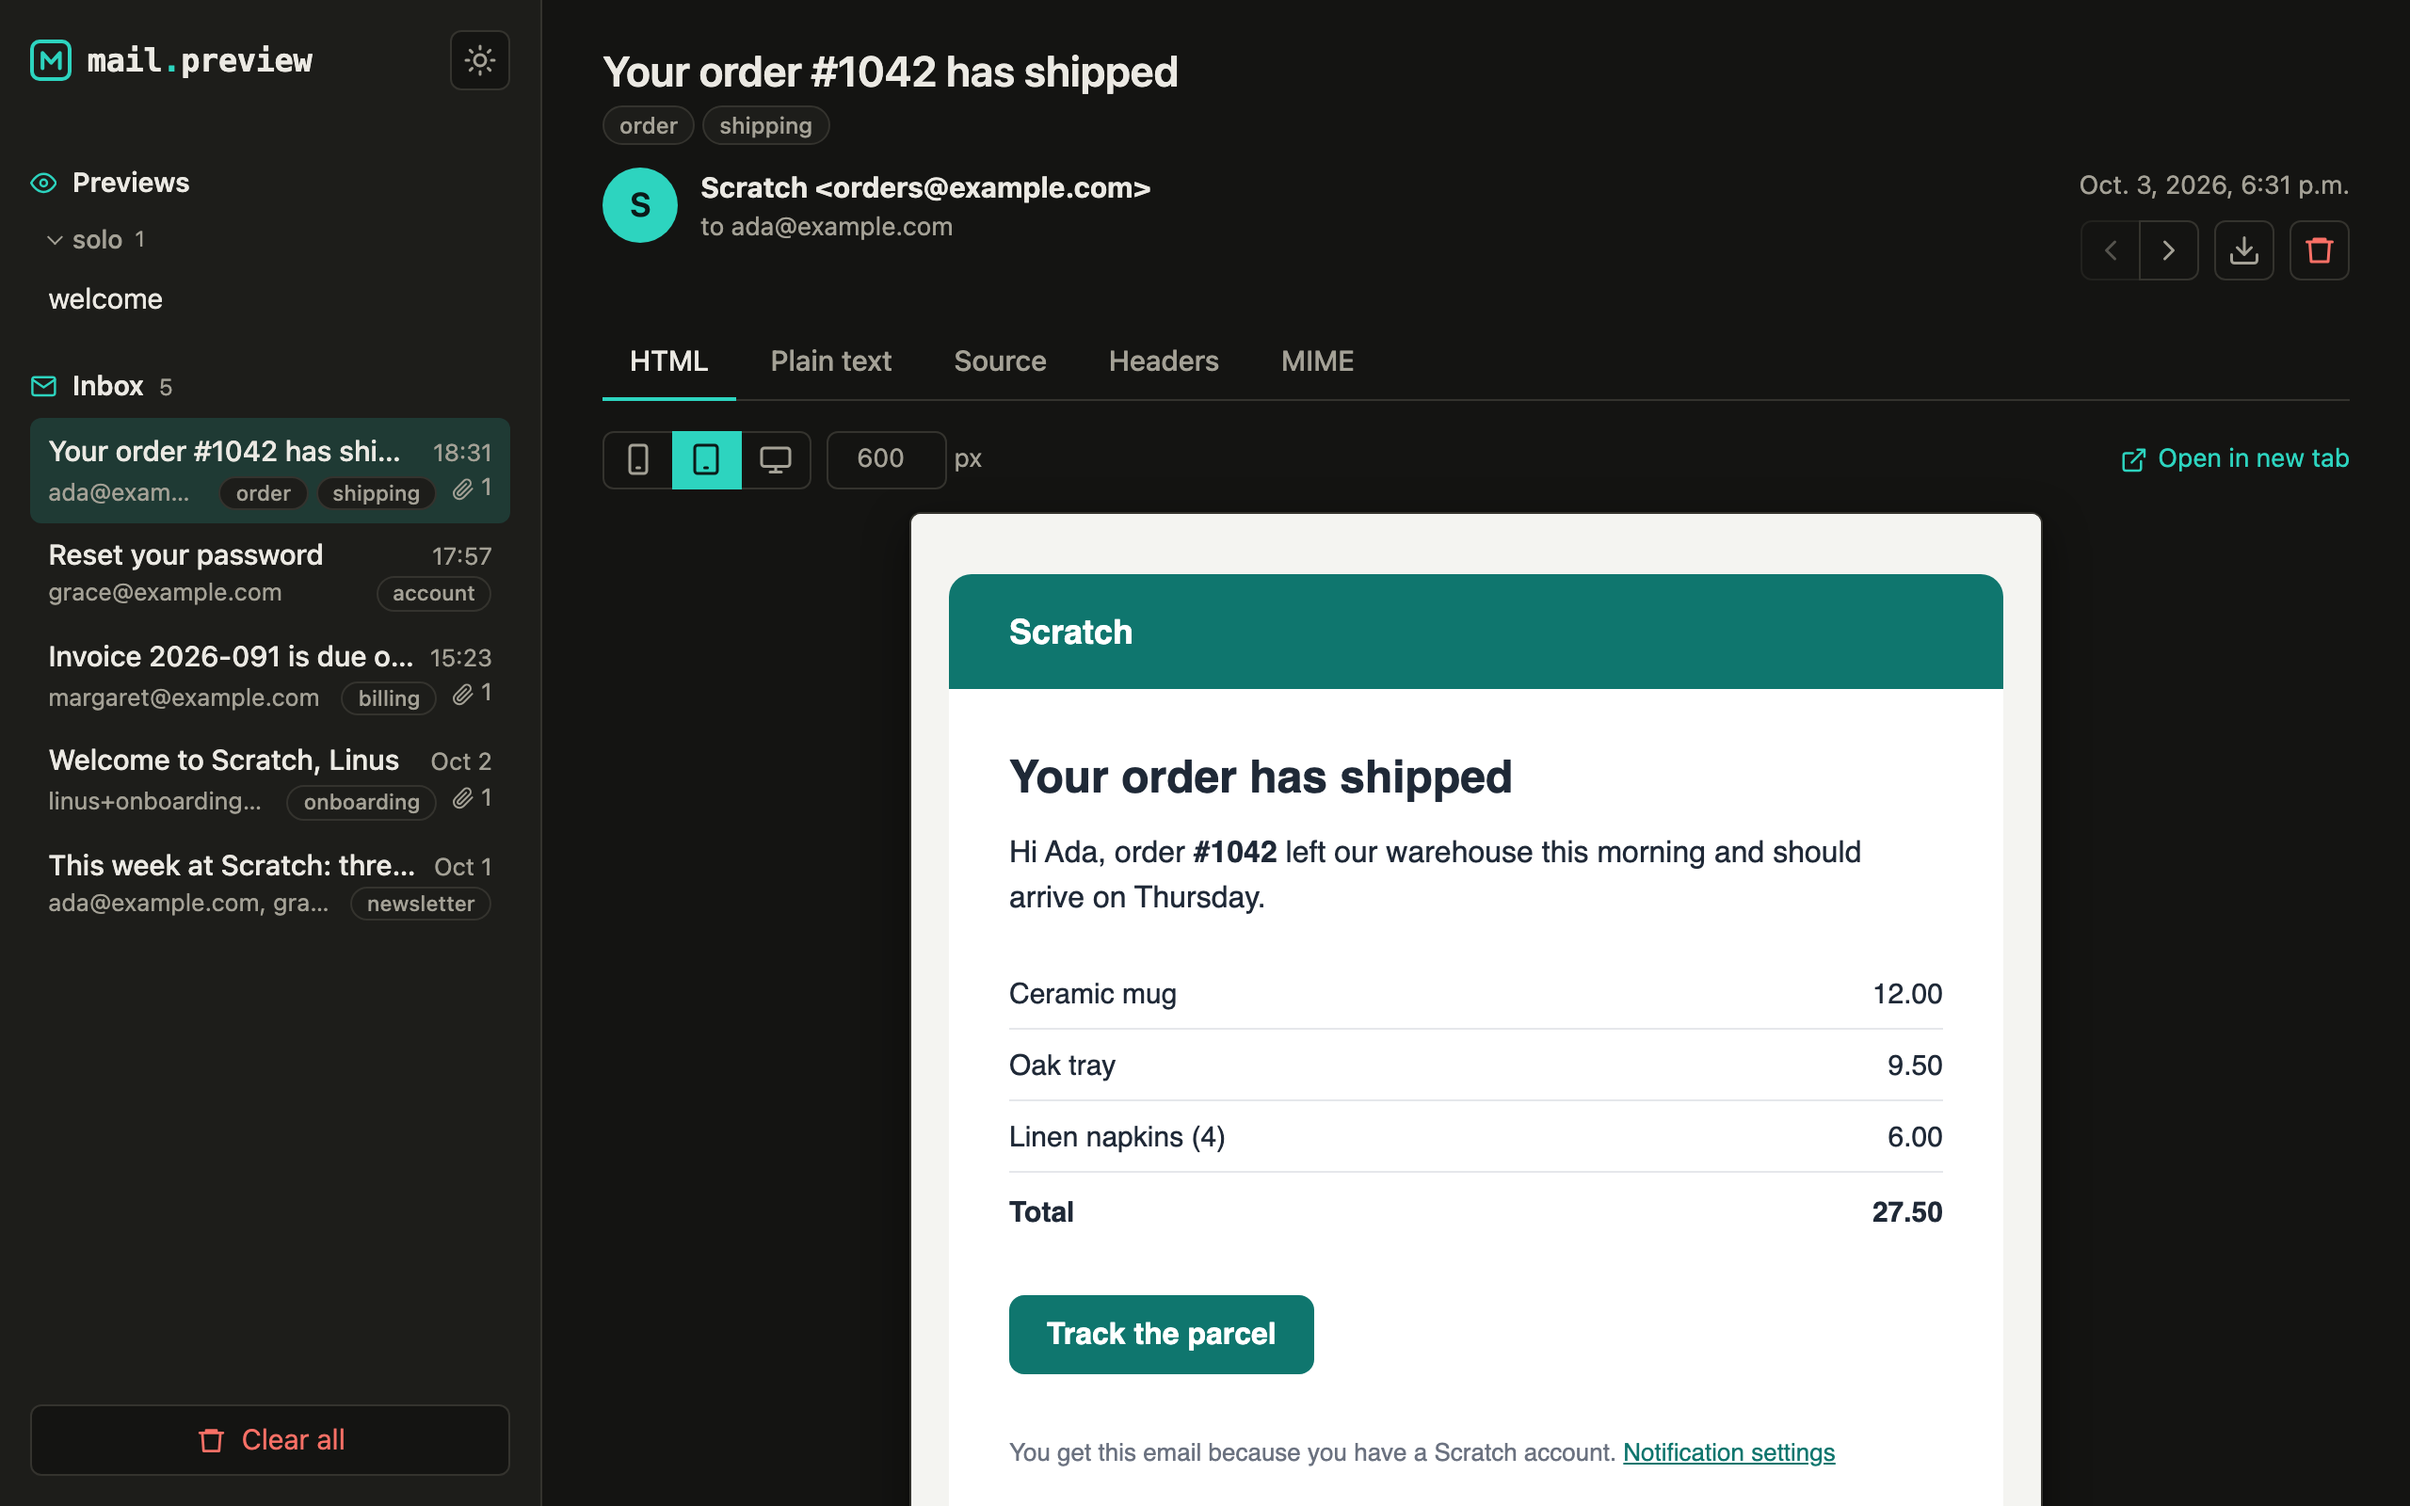
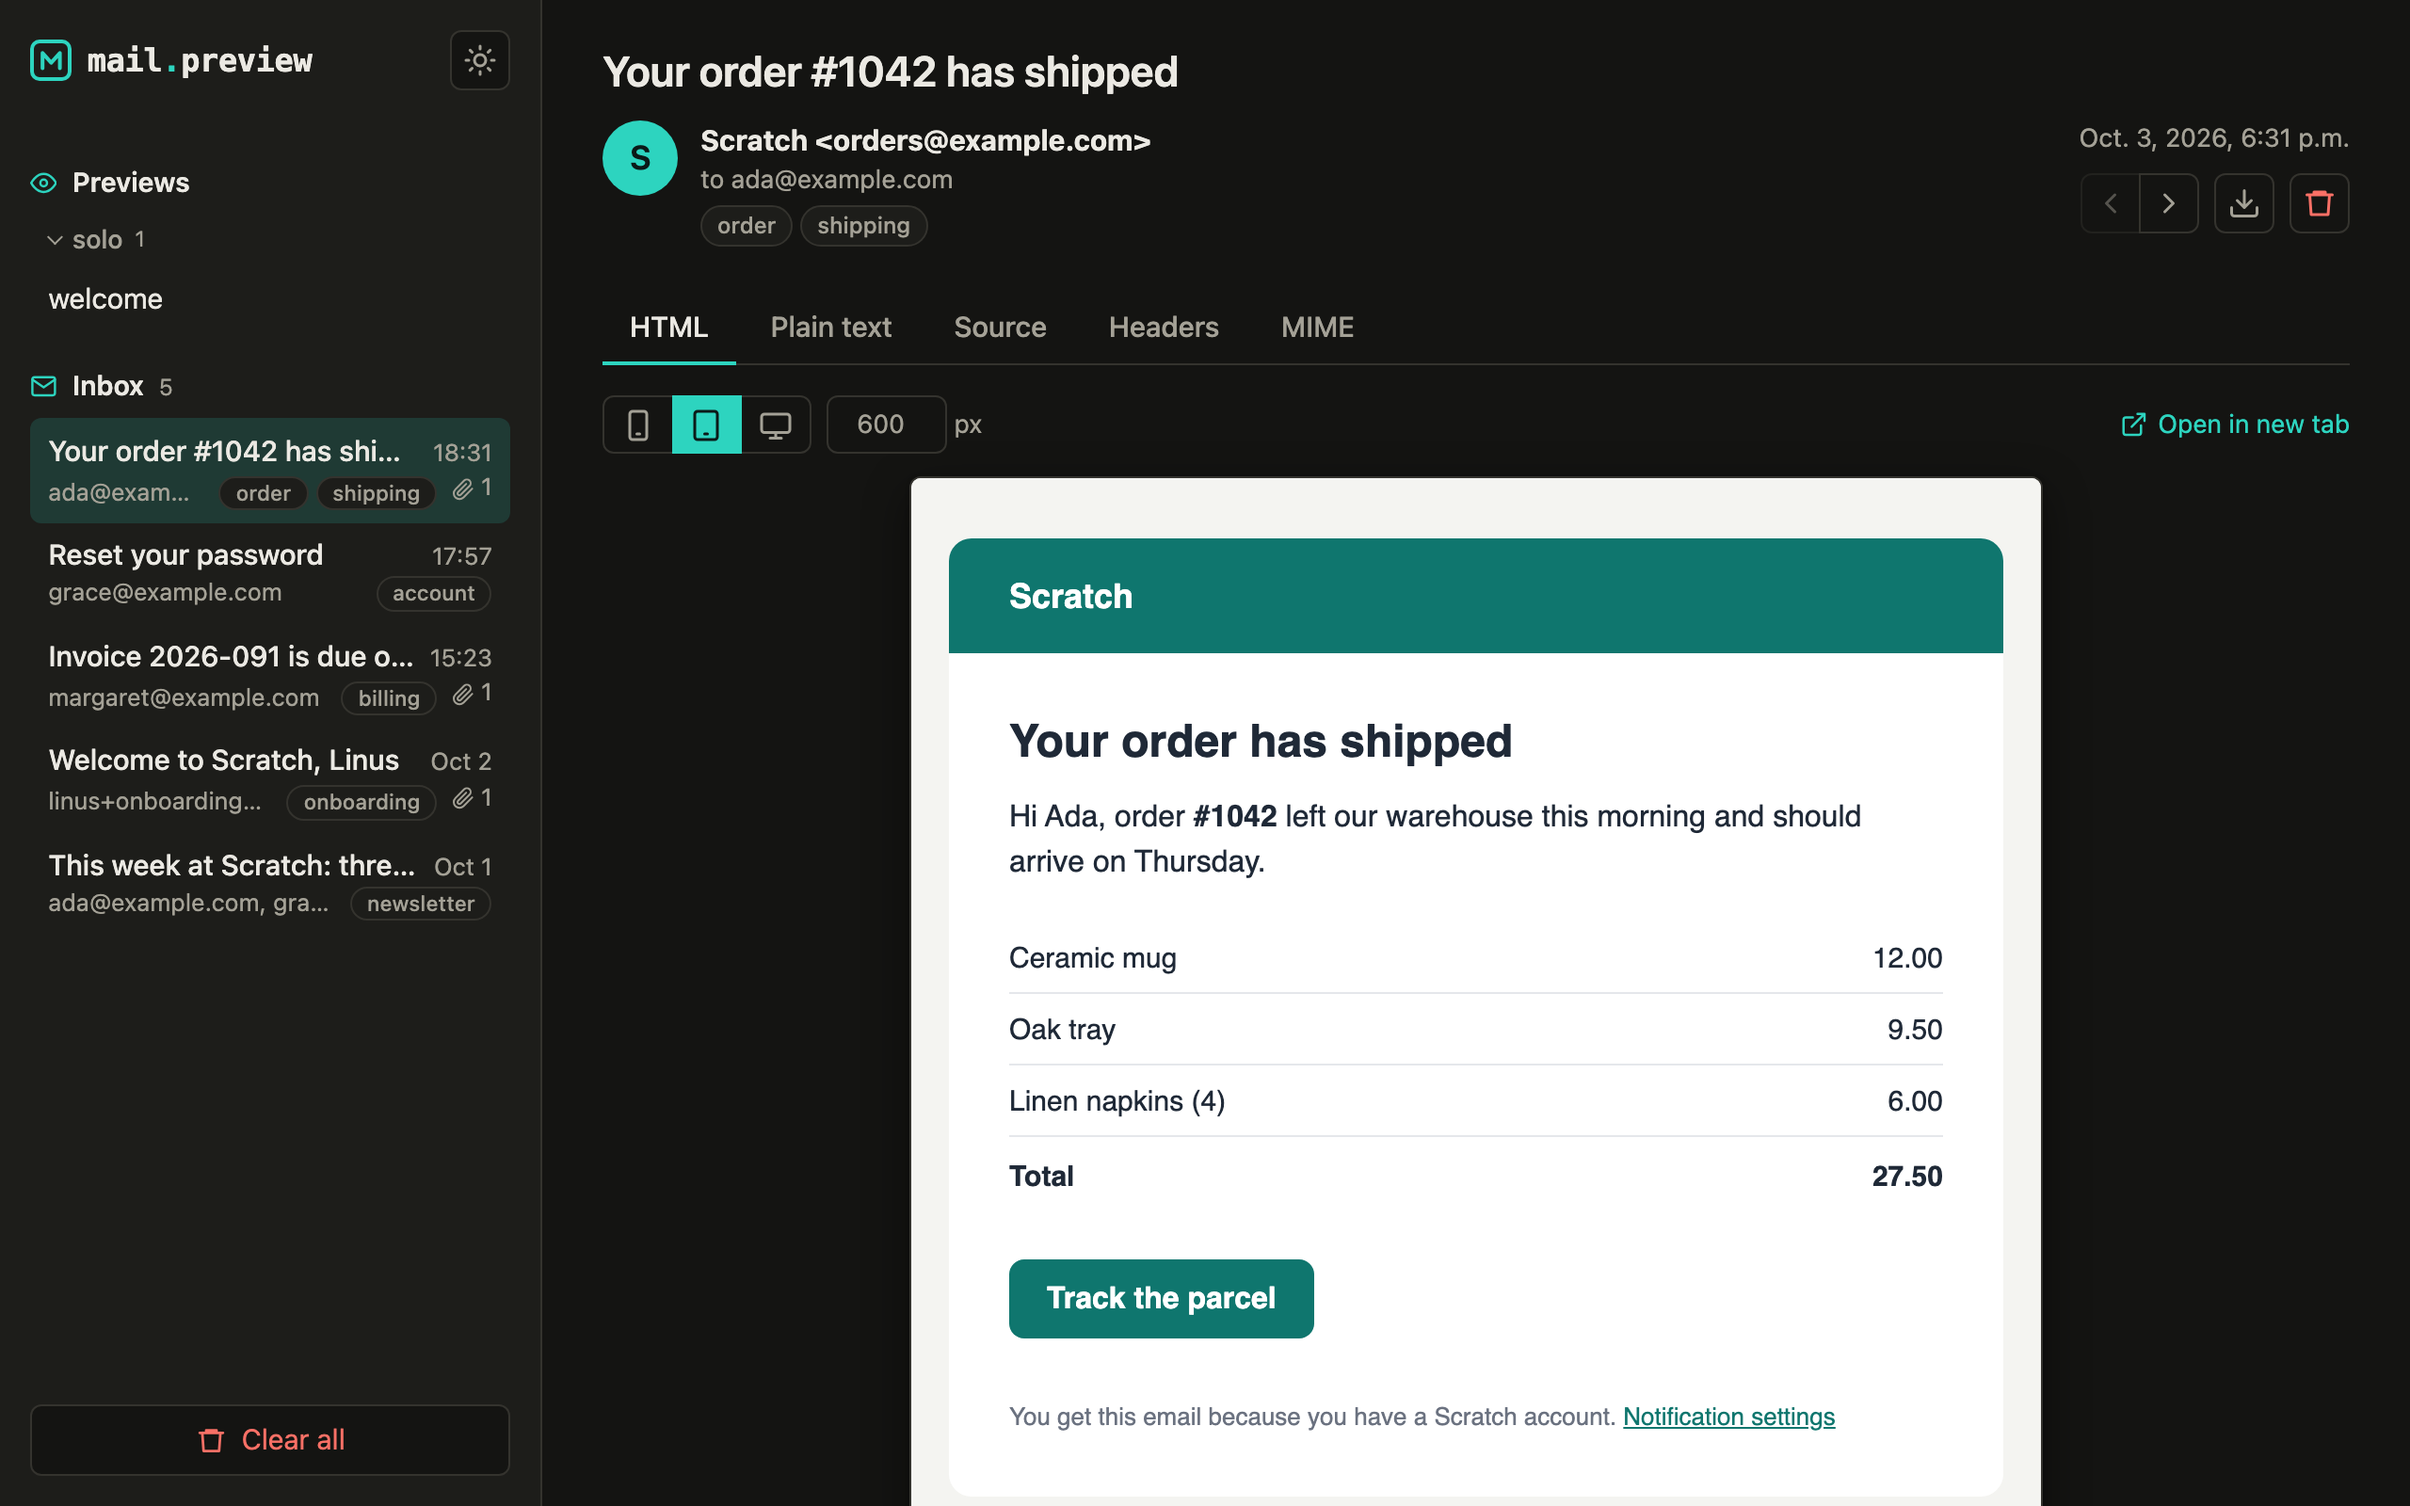
feat: the message page shows its tags under the addresses, and release 0.2.1
The chips move from a row under the subject to a third line of the sender
block, under the recipients, so the subject stands alone and the chips sit
with the people they belong to. The README screenshot is retaken with it,
and the version becomes 0.2.1 with its changelog section.

diff --git a/src/django_mail_preview/templates/django_mail_preview/message.html b/src/django_mail_preview/templates/django_mail_preview/message.html
@@ -8,10 +8,6 @@
   <article class="message">
     <header class="meta">
       <h1>{{ parsed.subject|default:"(no subject)" }}</h1>
-      {% if meta.tags %}
-        {# Each tag opens the inbox filtered by it. #}
-        <p class="tags">{% for tag in meta.tags %}<a class="tag" href="{% url 'mail_preview:index' %}?q=tag:{{ tag|urlencode }}">{{ tag }}</a>{% endfor %}</p>
-      {% endif %}
       <div class="sender">
         <span class="avatar" aria-hidden="true">{{ initial }}</span>
         <div class="who">
@@ -22,6 +18,10 @@
             {% if bcc %}<span>bcc {{ bcc|join:", " }}</span>{% endif %}
             {% if parsed.reply_to %}<span>reply-to {{ parsed.reply_to }}</span>{% endif %}
           </p>
+          {% if meta.tags %}
+            {# A third line under the addresses; each tag opens the inbox filtered by it. #}
+            <p class="tags">{% for tag in meta.tags %}<a class="tag" href="{% url 'mail_preview:index' %}?q=tag:{{ tag|urlencode }}">{{ tag }}</a>{% endfor %}</p>
+          {% endif %}
         </div>
         <div class="aside">
           {% if preview %}

diff --git a/src/django_mail_preview/static/django_mail_preview/preview.css b/src/django_mail_preview/static/django_mail_preview/preview.css
@@ -807,9 +807,10 @@ a.tag:hover {
   line-height: 1.5;
 }
 
-.meta .tags {
+/* On the message page the chips are the sender block's third line. */
+.who .tags {
   display: flex;
-  margin: calc(-1 * var(--space-2)) 0 var(--space-3);
+  margin: var(--space-1) 0 0;
 }
 
 @media (max-width: 48rem) {

diff --git a/tests/test_views.py b/tests/test_views.py
@@ -301,6 +301,9 @@ def test_message_page_links_each_tag_to_the_filtered_inbox(client):
         f'<p class="tags"><a class="tag" href="{route("index")}?q=tag:billing">billing</a>'
         f'<a class="tag" href="{route("index")}?q=tag:q%26a">q&amp;a</a></p>' in content
     )
+    # Under the addresses, inside the sender block, not under the subject.
+    assert content.index('class="route"') < content.index('<p class="tags">')
+    assert content.index('<p class="tags">') < content.index('class="aside"')
 
 
 def test_index_escapes_a_subject_with_markup(client):

diff --git a/CHANGELOG.md b/CHANGELOG.md
@@ -2,6 +2,10 @@
 
 ## Unreleased
 
+## 0.2.1 (2026-10-03)
+
+- On the message page the tag chips moved from under the subject to a third line of the sender block, under the recipients.
+
 ## 0.2.0 (2026-10-03)
 
 - The name at the top of the sidebar is now `mail.preview`, in monospace with the dot in the accent colour, beside an outlined tile; the page titles say the same. The favicon keeps the filled tile.
